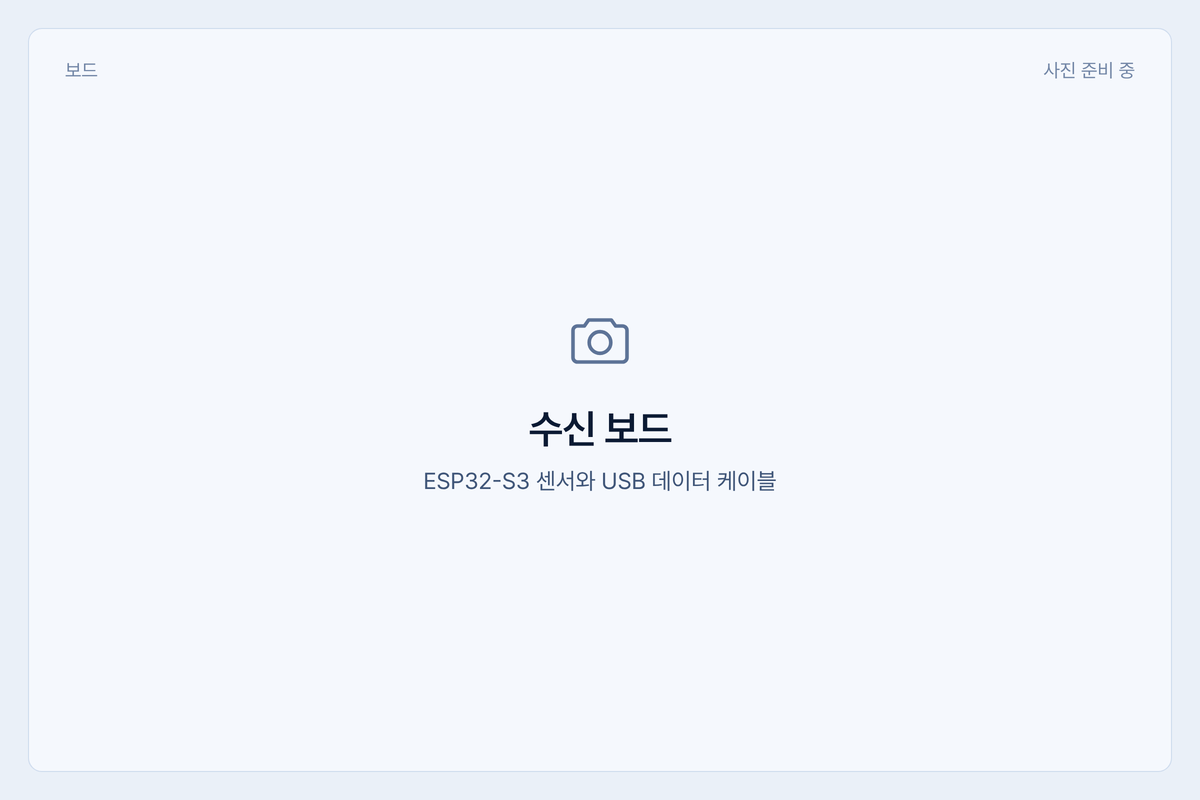
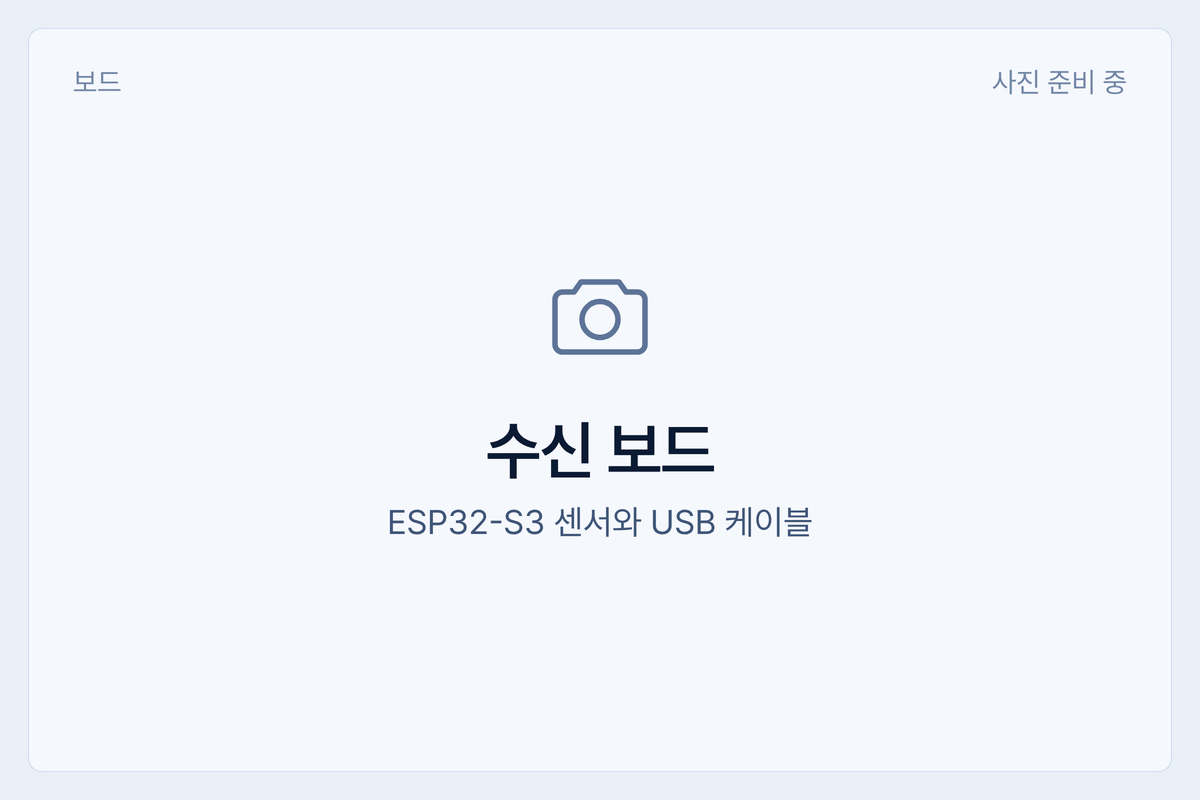
Lay out the hardware table by tier and enlarge photo frame labels

diff --git a/README.en.md b/README.en.md
@@ -95,10 +95,12 @@ To use real sensors, run `exam-uncheat hub --serial /dev/ttyACM0:115200` with th
 
 Prices were checked on 2026-11-17 and will drift, so look at [HARDWARE.md](docs/HARDWARE.md) before you buy. Radios that could transmit are driven with receive-only commands.
 
-| Kit | Parts | Rough cost per room | Sees | Misses |
-| --- | --- | --- | --- | --- |
-| Minimum | A laptop you already have, plus one or two ESP32-S3 or ESP32-C6 boards | KRW 15,000–50,000 | BLE advertising, 2.4 GHz Wi-Fi management frames | 5 GHz, classic Bluetooth, connected BLE, LTE/5G |
-| Recommended | Raspberry Pi 5 or a laptop, one or two ESP32-C5 boards, an MT7612U monitor-mode adapter | KRW 350,000–500,000 with a Pi, 150,000–200,000 with a laptop | Everything above, plus 5 GHz, Wi-Fi Direct, and front/back signal strength | Classic Bluetooth, connected BLE, LTE/5G content |
+| | Minimum | Recommended |
+| --- | --- | --- |
+| Parts | A laptop you already have, plus one or two ESP32-S3 or ESP32-C6 boards | Raspberry Pi 5 or a laptop, one or two ESP32-C5 boards, an MT7612U monitor-mode adapter |
+| Rough cost per room | KRW 15,000–50,000 | KRW 350,000–500,000 with a Pi, 150,000–200,000 with a laptop |
+| Sees | BLE advertising, 2.4 GHz Wi-Fi management frames | Everything on the left, plus 5 GHz, Wi-Fi Direct, and front/back signal strength |
+| Misses | 5 GHz, classic Bluetooth, connected BLE, LTE/5G | Classic Bluetooth, connected BLE, LTE/5G content |
 
 ## Legal
 
